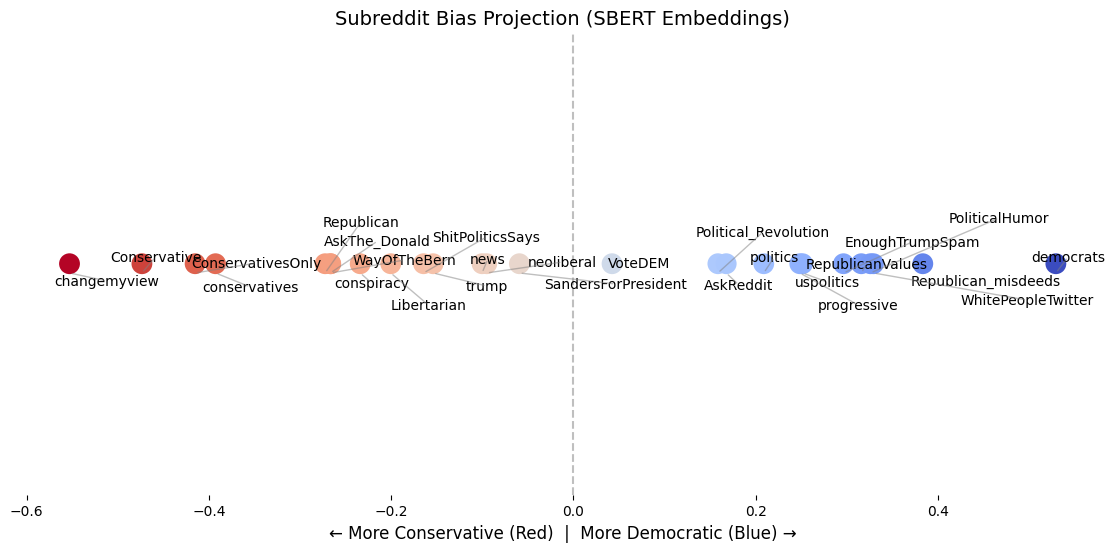
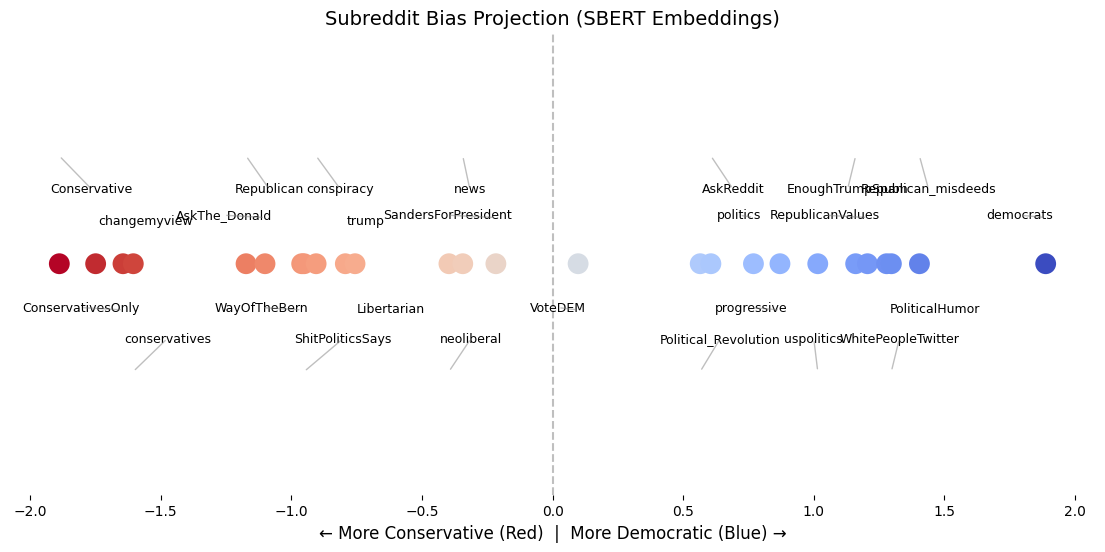
Feat: Subreddit Plot

diff --git a/subreddit_plot.py b/subreddit_plot.py
@@ -15,16 +15,106 @@ import torch
 
 if __name__ == "__main__":
     
-    linerasure = True
-    
+    linerasure = False
+    two_axis = True
     dataloaders = get_dataloaders("subreddits", batch_size=32, split=False, renew_cache=False)
-    embeddings, partisan_labels, subreddits = generate_embeddings(dataloaders['train'], path = "data/centerloss_sbert")
-    df =  pd.DataFrame({"embedding": list(embeddings), "subreddit": subreddits})
+    embeddings, partisan_labels, subreddits = generate_embeddings(dataloaders['train'], path = "data/centerloss_sbert_full")
+    
+    cf_svm = joblib.load("data/svm/svm_model.joblib")
+    labels = cf_svm.predict(embeddings)
+    
+    df =  pd.DataFrame({"embedding": list(embeddings), "subreddit": subreddits, "label": labels})
+    
+
+
     
     subreddit_centroids = df.groupby('subreddit')['embedding'].apply(
         lambda x: np.mean(np.vstack(x), axis=0)
     ).to_dict()
+    avg_labels = df.groupby('subreddit')['label'].apply(
+        lambda x: np.mean(x)
+    ).to_dict()
+
     print(subreddit_centroids.keys())
+
+    political_axis = -1*np.load("data/cached_data/political_axis.npy")
+    axis_norm = political_axis / np.linalg.norm(political_axis)
+    scores = {}
+    for sub, centroid in subreddit_centroids.items():
+        # Project the centroid onto the axis
+        # We normalize the axis so the scale is interpretable
+        score = np.dot(centroid, axis_norm)
+        scores[sub] = score
+
+
+    if two_axis:
+        plot_data = []
+        for sub in scores.keys():
+            plot_data.append({
+                'Subreddit': sub,
+                'Geometric_Score': scores[sub],          # X-Axis
+                'Pct_Republican': avg_labels[sub] * 100  # Y-Axis (Converted to %)
+            })
+
+        df_plot = pd.DataFrame(plot_data)
+
+        # --- 4. Generate the Plot ---
+        plt.figure(figsize=(14, 10))
+
+# Set a clean background style
+        sns.set_style("whitegrid")
+
+        # FIX 2: Add Color Scale mapped to Y-axis value
+        # palette='vlag' diverges from Blue (low values) to Red (high values)
+        sns.scatterplot(
+            data=df_plot,
+            x='Geometric_Score',
+            y='Pct_Republican',
+            hue='Pct_Republican',  # Map color to percentage
+            palette='vlag',        # Red-Blue diverging palette
+            s=250,                 # Large, visible dots
+            edgecolor='black',     # distinct borders
+            linewidth=1,
+            alpha=0.9,
+            legend=False           # Hide legend (color explains itself based on Y-axis)
+        )
+
+        # Add center reference lines
+        plt.axvline(0, color='#555555', linestyle='--', alpha=0.5)
+        plt.axhline(50, color='#555555', linestyle='--', alpha=0.5)
+
+        # FIX 3: Make Labels Readable with adjustText
+        texts = []
+        for i in range(df_plot.shape[0]):
+            # We create text objects but don't add them to the plot immediately
+            texts.append(plt.text(
+                df_plot.Geometric_Score[i],
+                df_plot.Pct_Republican[i],
+                df_plot.Subreddit[i],
+                fontsize=11,
+                fontweight='bold',
+                color='#333333' # Dark grey text is softer than pure black
+            ))
+
+        # This function iteratively moves the text objects to prevent overlap
+        # arrowprops adds nice little lines connecting text to the dot if it moved far
+        adjust_text(texts,
+                    arrowprops=dict(arrowstyle='-', color='grey', alpha=0.6),
+                    expand_points=(1.5, 1.5) # Push text slightly further from dots
+                )
+
+        # Final Formatting with corrected X-axis label
+        plt.title("Subreddit Alignment: Geometric Bias vs. Classifier Prediction", fontsize=18, pad=20)
+        plt.xlabel("Geometric Partisan Score (Projected on Axis)\n← Liberal  |  Conservative →", fontsize=14, labelpad=10)
+        plt.ylabel("Percentage of Texts Classified as Republican (%)", fontsize=14, labelpad=10)
+
+        # Set axis limits to make it look clean (adjust based on your actual data range)
+        plt.xlim(-2.2, 2.2)
+        plt.ylim(-5, 105)
+
+        plt.tight_layout()
+        plt.show()
+        exit()
     # 1. Define the poles
      # The "Right" Pole
 
@@ -73,13 +163,7 @@ if __name__ == "__main__":
         plt.show()
 
         exit()
-    political_axis = np.load("data/cached_data/political_axis.npy")
-    scores = {}
-    for sub, centroid in subreddit_centroids.items():
-        # Project the centroid onto the axis
-        # We normalize the axis so the scale is interpretable
-        score = dot(centroid, political_axis) / norm(political_axis)
-        scores[sub] = score
+
 
     # Convert to DataFrame for easy viewing
     
